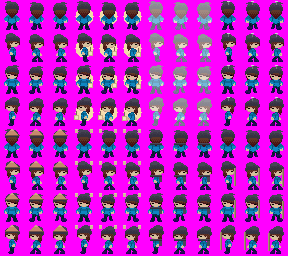
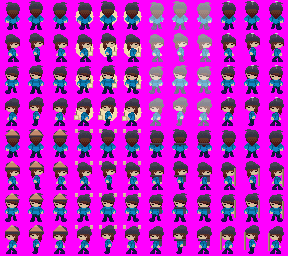
player: put the idle pose in the middle frame slot
The reference sheet's three rows are idle, step, step — not three steps.  Row
0 is the neutral standing pose: in profile its shoe footprint is eight pixels
wide against eleven for the other two, and those two are mirror images of
each other, which is the signature of a pair of opposite contacts either side
of a rest.

RPG Maker plays charset frames 0, 1, 2, 1 and shows frame 1 whenever the
player is standing still, so the idle belongs in the middle slot.  With it
there the cycle reads step, idle, step, idle — the alternation the sheet was
drawn for — and coming to a halt leaves the figure on its own idle instead of
frozen mid-stride.

Claude-Session: https://claude.ai/code/session_018yu6EtTAAJbfQTsFKym1ot

diff --git a/tools/liminal/art/dreamer.py b/tools/liminal/art/dreamer.py
@@ -48,7 +48,13 @@ REFERENCE = os.path.normpath(os.path.join(
 SCALE = 8
 CHECKER = ((192, 192, 192), (128, 128, 128))
 COLUMNS = {UP: (9, 24), RIGHT: (44, 58), DOWN: (26, 41), LEFT: (61, 75)}
-ROWS = ((5, 33), (36, 63), (66, 93))
+# The author's rows are idle, step, step — row 0 is the neutral standing pose
+# (in profile its shoe footprint is 8px wide against 11 for the other two, and
+# those two are mirror images of each other).  RPG Maker plays frames 0, 1, 2, 1
+# and shows frame 1 when the player is standing still, so the idle goes in the
+# middle slot: the cycle becomes step, idle, step, idle, and stopping leaves the
+# figure on its own idle rather than mid-stride.
+ROWS = ((36, 63), (5, 33), (66, 93))
 
 
 def _sheet() -> tuple[np.ndarray, np.ndarray]:
